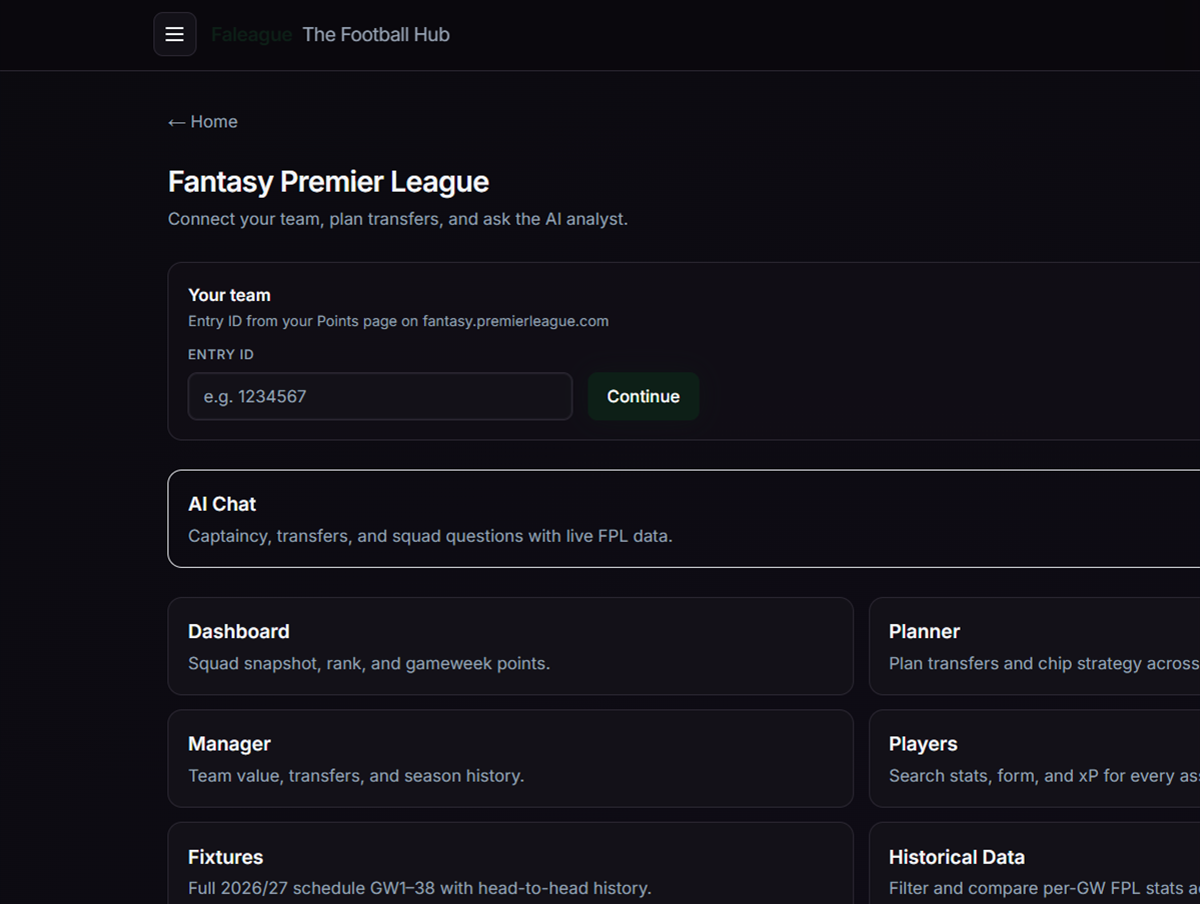
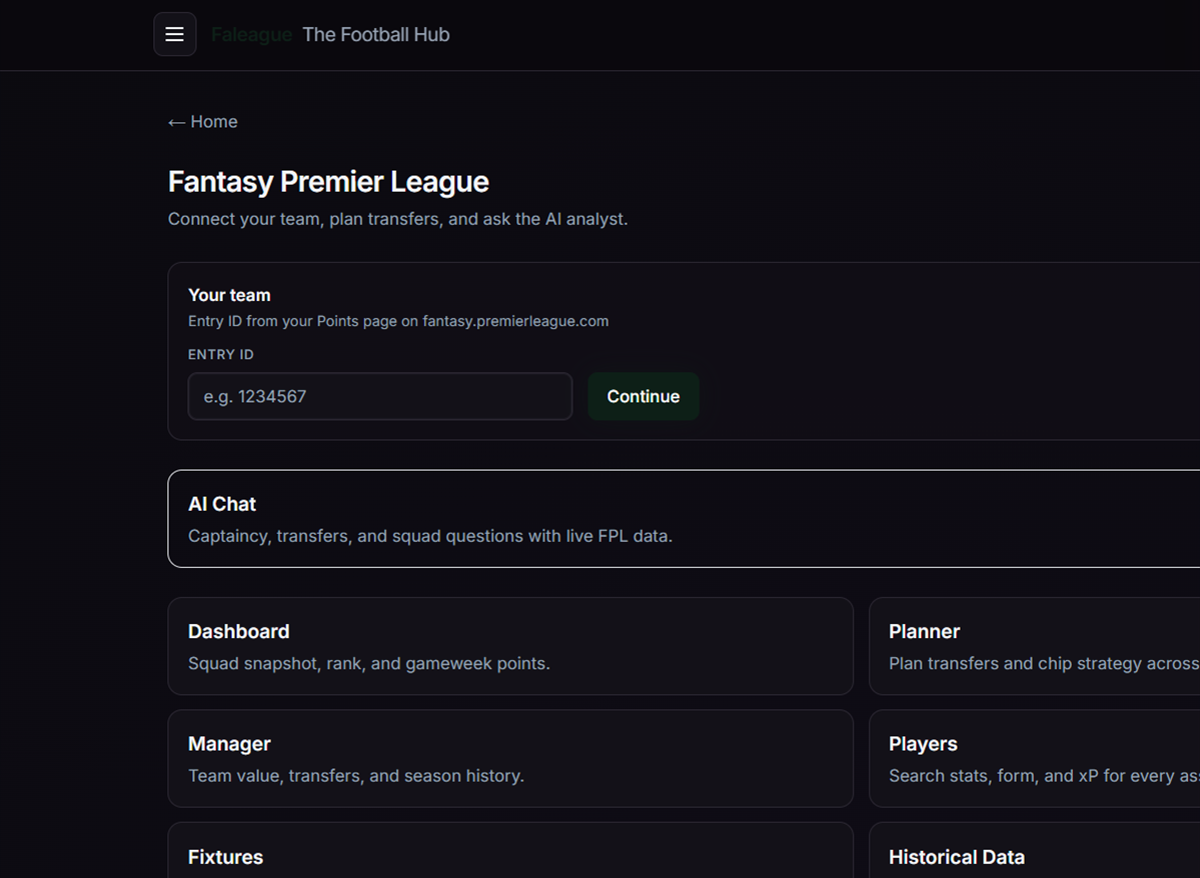
Crop FPL screenshots and restore scroll-to-top on route changes.

diff --git a/src/components/ScrollToTop.jsx b/src/components/ScrollToTop.jsx
@@ -1,0 +1,15 @@
+import { useEffect } from 'react'
+import { useLocation } from 'react-router-dom'
+
+export default function ScrollToTop() {
+  const { pathname, hash } = useLocation()
+
+  useEffect(() => {
+    if (hash) return
+
+    window.scrollTo(0, 0)
+    requestAnimationFrame(() => window.scrollTo(0, 0))
+  }, [pathname, hash])
+
+  return null
+}

diff --git a/src/main.jsx b/src/main.jsx
@@ -4,6 +4,10 @@ import './index.css'
 import App from './App.jsx'
 import { LanguageProvider } from './i18n/LanguageContext.jsx'
 
+if ('scrollRestoration' in window.history) {
+  window.history.scrollRestoration = 'manual'
+}
+
 createRoot(document.getElementById('root')).render(
   <StrictMode>
     <LanguageProvider>

diff --git a/src/App.jsx b/src/App.jsx
@@ -1,4 +1,5 @@
 import { BrowserRouter, Route, Routes } from 'react-router-dom'
+import ScrollToTop from './components/ScrollToTop'
 import About from './pages/About'
 import ClubManagementDetail from './pages/ClubManagementDetail'
 import FplContentDetail from './pages/FplContentDetail'
@@ -9,6 +10,7 @@ import SternespielerDetail from './pages/SternespielerDetail'
 export default function App() {
   return (
     <BrowserRouter>
+      <ScrollToTop />
       <Routes>
         <Route path="/" element={<Home />} />
         <Route path="/about" element={<About />} />